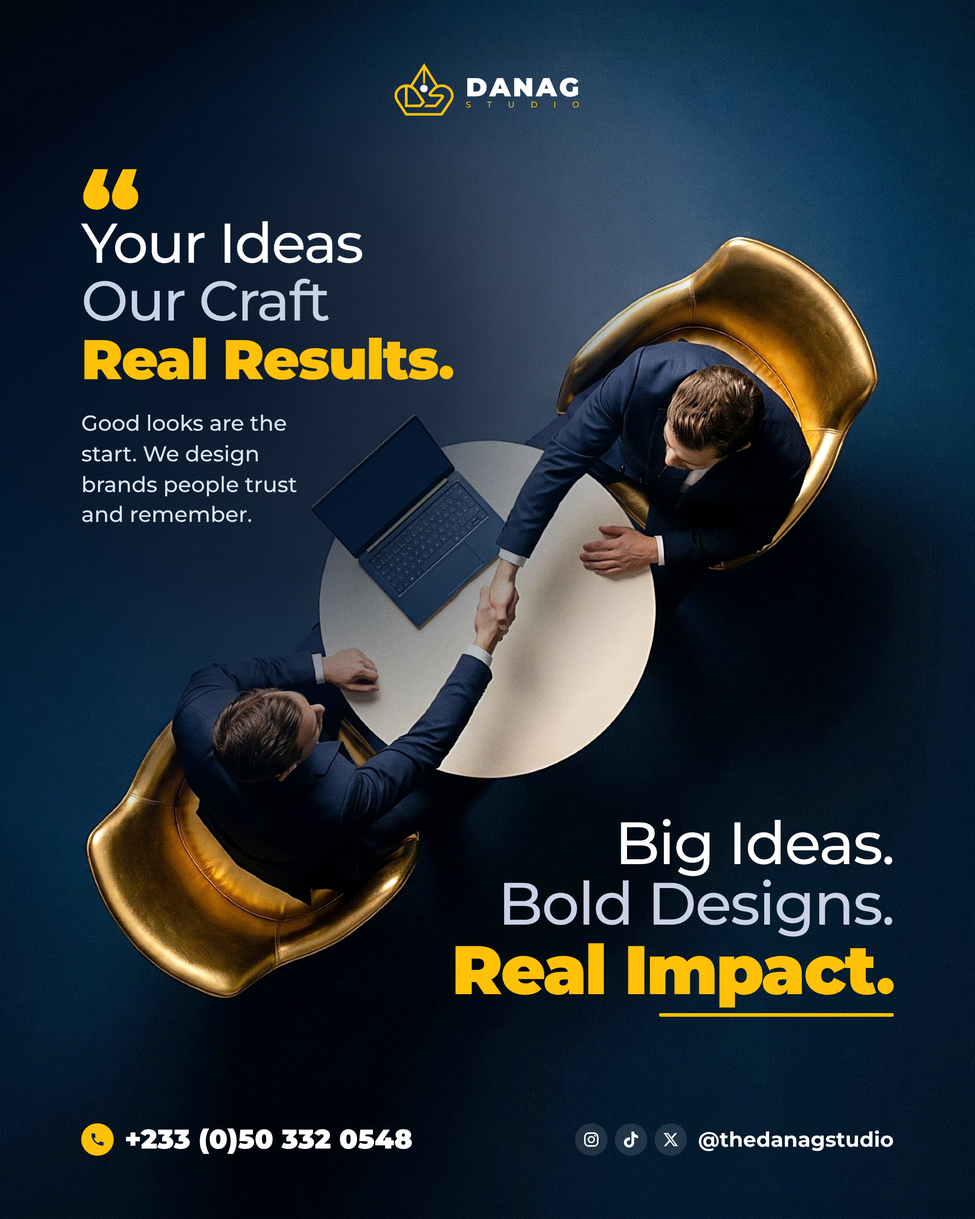
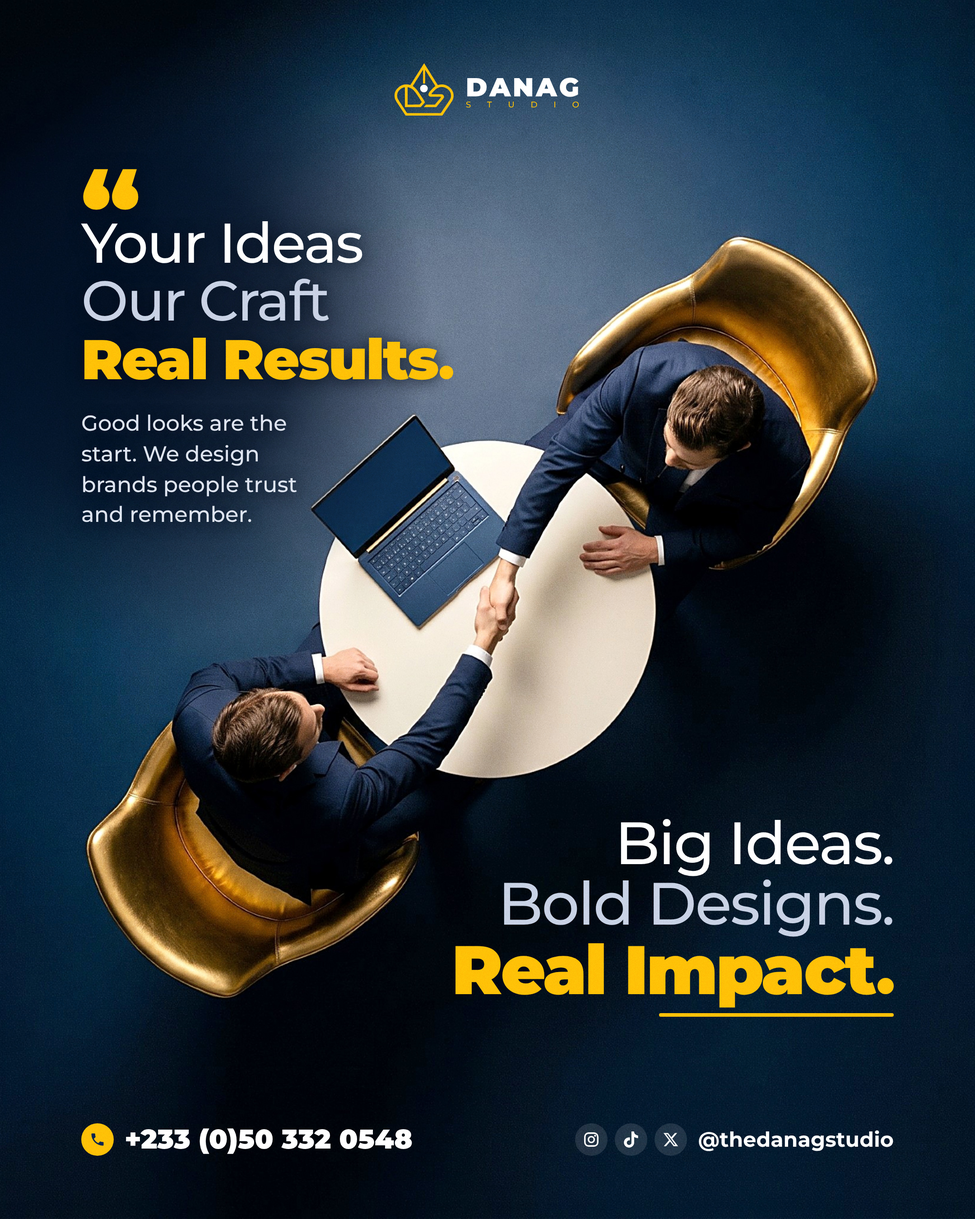
P11: navy behind text only, laptop clear
Claude-Session: https://claude.ai/code/session_016a1VN4sEuNiBsko23wNLQZ

Changed region(s): [[0.062, 0.0622, 0.7134, 0.6844], [0.6824, 0.3422, 0.7134, 0.3733]]

diff --git a/promo/render_layouts.py b/promo/render_layouts.py
@@ -42,9 +42,9 @@ D['P10'] = photo('P10.jpg') + f'''
  <svg width="440" height="30" viewBox="0 0 440 30" style="display:block;margin:6px 0 0 360px"><path d="M6 18 C120 6 300 4 434 10 M60 26 C170 18 300 16 400 20" fill="none" stroke="{G}" stroke-width="5" stroke-linecap="round"/></svg></div>
 <div class="a" style="left:0;right:0;top:965px;text-align:center;font-weight:900;font-size:50px;line-height:1.02;color:#5a3d00;mix-blend-mode:multiply;text-shadow:0 1px 0 rgba(255,230,160,.6)">Your<br>Brand</div>
 <div class="a" style="left:0;right:0;bottom:56px;display:flex;justify-content:center"><div style="border:2px solid {G};background:rgba(255,193,7,.12);border-radius:40px;padding:14px 34px;font-weight:900;font-size:28px">Let's talk: <span style="color:{G}">+233 (0)50 332 0548</span></div></div>'''
-D['P11'] = photo('P11-sharp.jpg') + '<div class="a" style="inset:0;background:radial-gradient(ellipse 52% 40% at 22% 30%,rgba(1,12,30,.88) 0%,rgba(1,14,34,.7) 45%,rgba(1,16,38,0) 100%)"></div>' + f'''
+D['P11'] = photo('P11-sharp.jpg') + '<div class="a" style="inset:0;background:radial-gradient(ellipse 42% 36% at 14% 27%,rgba(1,12,30,.9) 0%,rgba(1,14,34,.72) 38%,rgba(1,16,38,0) 72%)"></div>' + f'''
 <div class="a" style="left:0;right:0;top:70px;display:flex;justify-content:center">{logo(58)}</div>
-<div class="a" style="left:90px;top:175px;line-height:1.04">
+<div class="a" style="left:90px;top:175px;line-height:1.04;text-shadow:0 2px 18px rgba(1,10,26,.85)">
  <div style="font-weight:900;font-size:110px;color:{G};height:62px;line-height:1">&ldquo;</div>
  <div style="font-weight:500;font-size:62px;letter-spacing:-1.5px">Your Ideas</div>
  <div style="font-weight:500;font-size:62px;letter-spacing:-1.5px;color:#c9d3e6">Our Craft</div>
